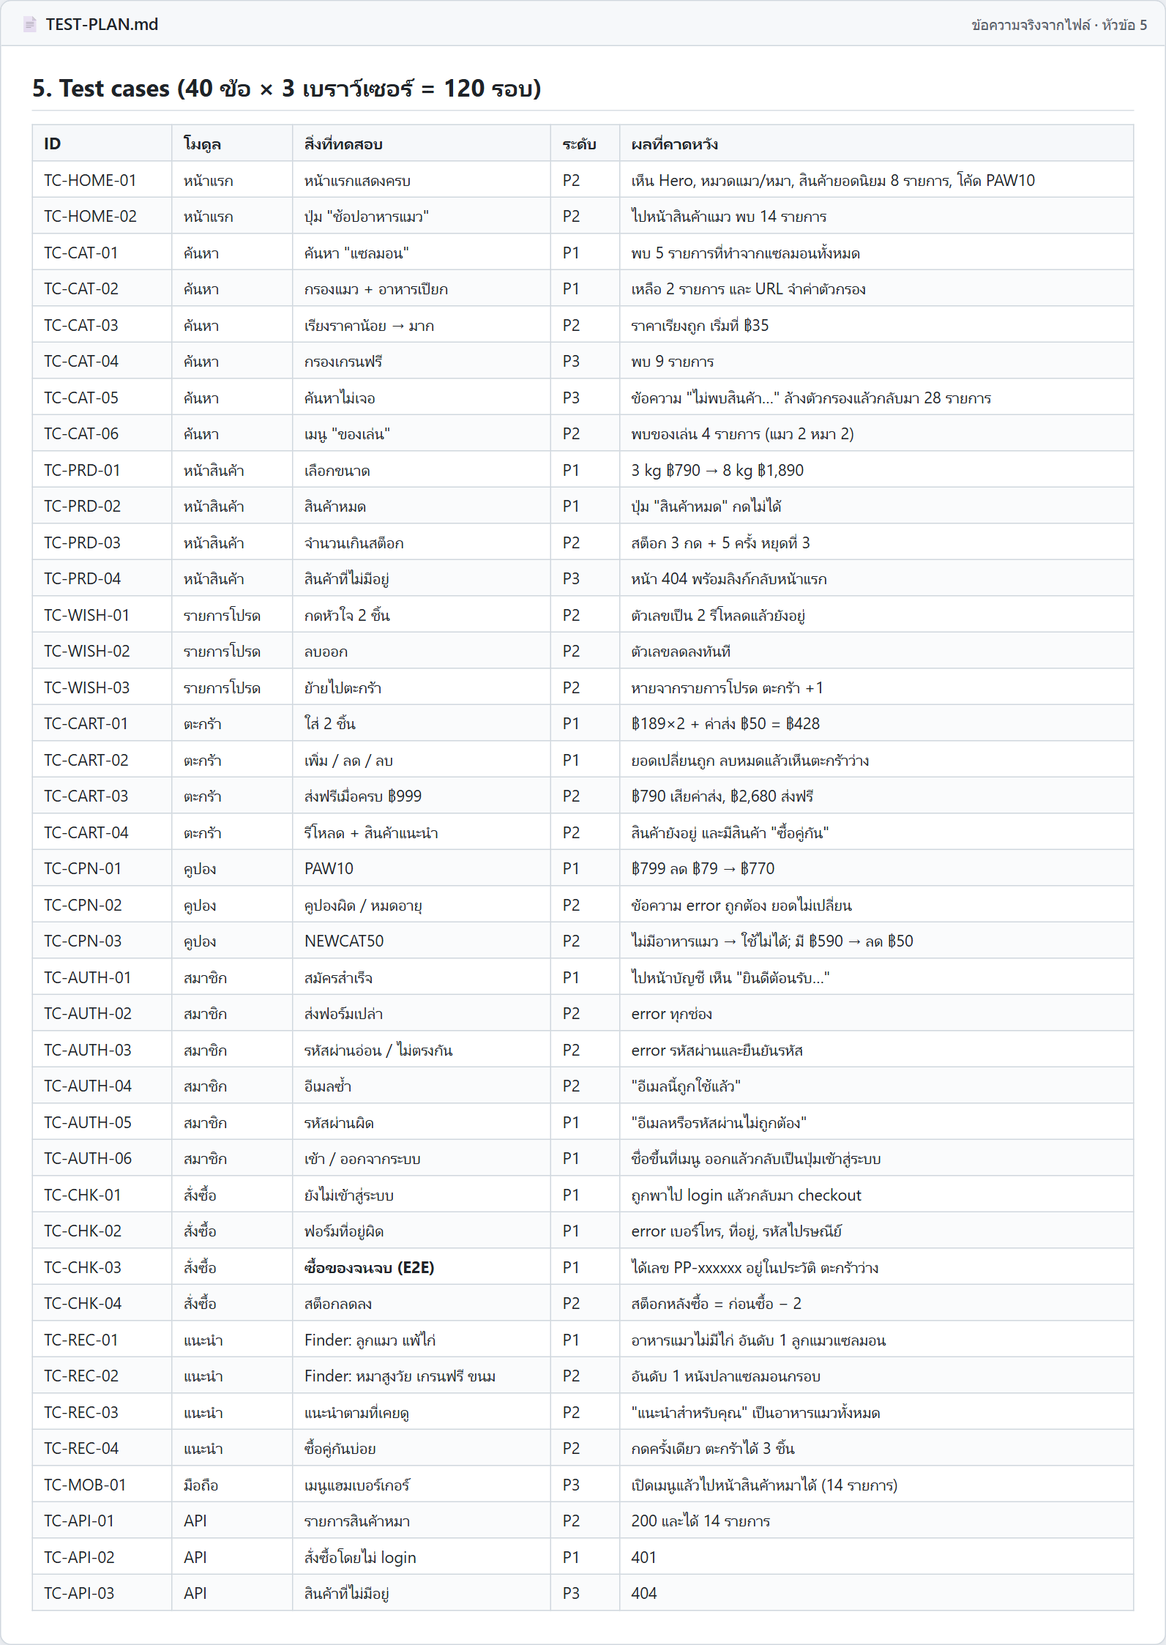
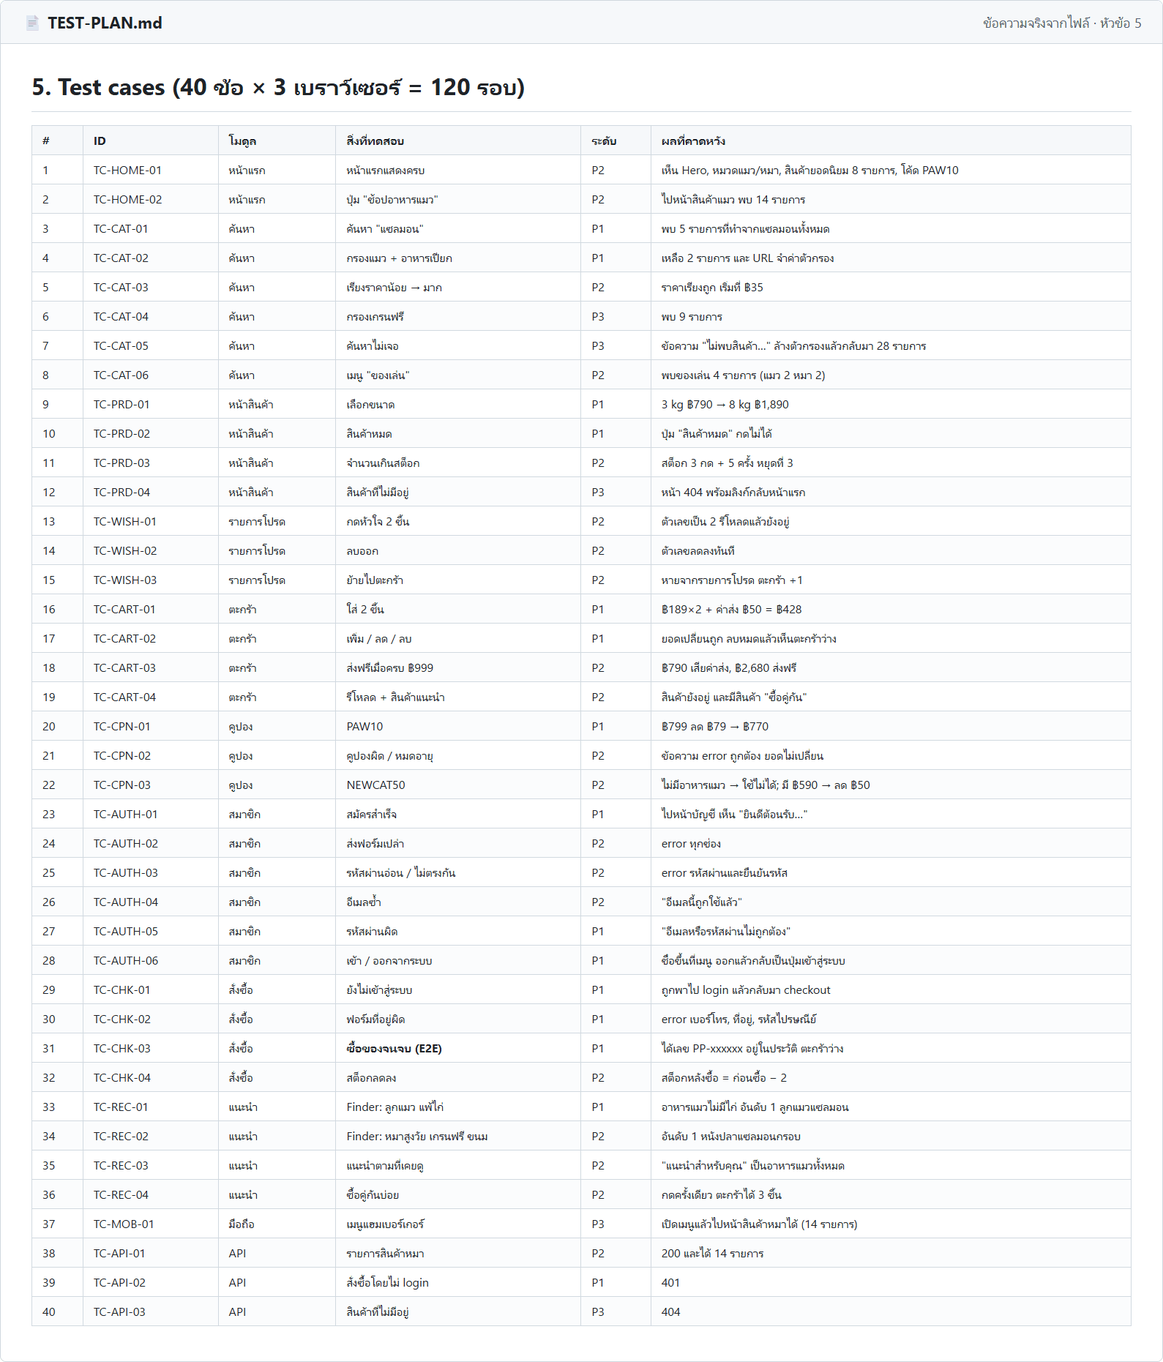
1

Changed region(s): [[0.0308, 0.0, 0.9559, 0.9973], [0.8326, 0.0, 0.9868, 0.0312], [0.9868, 0.9973, 1.0, 1.0]]

diff --git a/00_week01/02_petshop-test-from-plan/TEST-PLAN.md b/00_week01/02_petshop-test-from-plan/TEST-PLAN.md
@@ -5,13 +5,26 @@
 ทดสอบอัตโนมัติด้วย **Playwright บน Windows** โดยสั่งผ่าน Claude Code
 
 ## 2. ขอบเขต
-| ทดสอบ ✅ | ไม่ทดสอบ ❌ |
+ขอบเขตบอกว่ารอบนี้ **ทดสอบเรื่องอะไร และไม่ทดสอบเรื่องอะไร** ผลการทดสอบจึงรับรองระบบได้เฉพาะเรื่องที่อยู่ในขอบเขตเท่านั้น
+
+![ขอบเขตการทดสอบ PawPantry: ในรั้วคือสิ่งที่ทดสอบ ทุกหน้าตั้งแต่ค้นหาถึงสั่งซื้อ ราคา ส่วนลด ค่าส่ง ตรวจข้อมูลในฟอร์ม ระบบแนะนำสินค้า 3 เบราว์เซอร์และมือถือ และ API นอกรั้วคือสิ่งที่ไม่ทดสอบ รับเงินจริง load test และ penetration test](img/plan-scope.jpg)
+
+**✅ ทดสอบ (อยู่ในขอบเขต)**
+| เรื่อง | ครอบคลุมอะไร | โมดูล |
+|---|---|---|
+| การทำงานของทุกหน้า | หน้าแรก ค้นหา หน้าสินค้า รายการโปรด ตะกร้า สมาชิก จนสั่งซื้อสำเร็จ | HOME, CAT, PRD, WISH, CART, AUTH, CHK |
+| เงิน | ราคาตามขนาด ส่วนลดคูปอง ค่าส่ง และยอดรวม | CART, CPN, CHK |
+| การตรวจข้อมูลในฟอร์ม | ฟอร์มสมัคร เข้าสู่ระบบ และที่อยู่จัดส่ง ต้องแจ้ง error เมื่อกรอกผิด | AUTH, CHK |
+| ระบบแนะนำสินค้า | ตัวช่วยเลือกอาหาร (Finder) แนะนำตามที่เคยดู และซื้อคู่กันบ่อย | REC |
+| เบราว์เซอร์และอุปกรณ์ | Chromium, Firefox, WebKit (Safari) และหน้าจอมือถือ | ทุกโมดูล, MOB |
+| API | ข้อมูลสินค้า และสิทธิ์การสั่งซื้อ (ต้องเข้าสู่ระบบก่อน) | API |
+
+**❌ ไม่ทดสอบ (อยู่นอกขอบเขต)**
+| เรื่อง | เหตุผล |
 |---|---|
-| การทำงานของทุกหน้า (functional) ตั้งแต่ค้นหาจนสั่งซื้อ | การรับเงินจริง (เว็บเป็นระบบจำลอง) |
-| การคำนวณราคา ส่วนลด และค่าส่ง | ความเร็วเมื่อมีผู้ใช้จำนวนมาก (load test) |
-| การตรวจข้อมูลในฟอร์ม (validation) | ความปลอดภัยเชิงลึก (penetration test) |
-| ระบบแนะนำสินค้า · หมวดของเล่น / ของใช้ | |
-| 3 เบราว์เซอร์: Chromium, Firefox, WebKit (Safari) · หน้าจอมือถือ · API | |
+| การรับเงินจริง | เว็บเป็นระบบจำลอง ไม่ได้เชื่อมต่อธนาคารหรือบัตรเครดิต |
+| ความเร็วเมื่อมีผู้ใช้จำนวนมาก (load test) | ต้องใช้เครื่องมือและเครื่องทดสอบเฉพาะ ไม่ใช่เป้าหมายของรอบนี้ |
+| ความปลอดภัยเชิงลึก (penetration test) | ต้องใช้ผู้เชี่ยวชาญด้านความปลอดภัย รอบนี้ตรวจเพียงสิทธิ์พื้นฐานผ่าน API |
 
 ## 3. วิธีคิด test case (เทคนิคที่ใช้)
 | เทคนิค | ตัวอย่างในบทนี้ |
@@ -24,53 +37,65 @@
 | **API / Security** | สั่งซื้อผ่าน API โดยไม่เข้าสู่ระบบต้องได้ 401 |
 
 ## 4. ระดับความสำคัญ
-- **P1** ถ้าพังแล้วขายของไม่ได้ หรือเงินคำนวณผิด
-- **P2** ฟีเจอร์สำคัญ แต่ลูกค้ายังซื้อของได้
-- **P3** ความสวยงามหรือกรณีที่เกิดไม่บ่อย
+test case ทุกข้อถูกจัดระดับตาม **ความเสียหายถ้าข้อนั้นล้ม** ระดับนี้ใช้ตัดสินว่าต้องแก้บั๊กไหนก่อน และระบบพร้อมปล่อยใช้งานหรือยัง
+
+![ระดับความสำคัญ P1 P2 P3 แบบไฟจราจร: P1 สีแดง ขายของไม่ได้หรือเงินผิด ล้มแล้วไม่ผ่านเกณฑ์ 15 ข้อ, P2 สีเหลือง ฟีเจอร์ผิดแต่ยังซื้อได้ แก้รอบถัดไป 20 ข้อ, P3 สีเขียว หน้าตาหรือเกิดไม่บ่อย แก้เมื่อมีเวลา 5 ข้อ รวม 40 ข้อ](img/plan-priority.jpg)
+
+| ระดับ | ความหมาย | ถ้าล้ม | จำนวน | ตัวอย่าง |
+|---|---|---|---|---|
+| 🔴 **P1** ร้ายแรง | ลูกค้าซื้อของไม่ได้ เงินคำนวณผิด หรือสิทธิ์การเข้าถึงผิด | ระบบ **ไม่ผ่านเกณฑ์ทันที** ห้ามปล่อยใช้งาน | 15 ข้อ | ยอดรวมตะกร้า (TC-CART-01), คูปอง PAW10 (TC-CPN-01) |
+| 🟡 **P2** ปานกลาง | ฟีเจอร์สำคัญทำงานผิด แต่ลูกค้ายังซื้อของได้ | บันทึกบั๊ก แก้ในรอบถัดไป | 20 ข้อ | ลบรายการโปรดแล้วตัวเลขต้องลด (TC-WISH-02) |
+| 🟢 **P3** เล็กน้อย | เรื่องหน้าตา หรือกรณีที่เกิดไม่บ่อย | แก้เมื่อมีเวลา | 5 ข้อ | หน้า 404 (TC-PRD-04), เมนูมือถือ (TC-MOB-01) |
+
+**วิธีจัดระดับ:** ถามทีละข้อ แล้วหยุดที่ข้อแรกที่ตอบว่า "ใช่"
+
+1. ถ้าข้อนี้ล้ม ลูกค้าซื้อของไม่ได้ เงินผิด หรือสิทธิ์ผิดใช่ไหม → **P1**
+2. ถ้าข้อนี้ล้ม ฟีเจอร์สำคัญทำงานผิด แต่ลูกค้ายังซื้อได้ใช่ไหม → **P2**
+3. นอกนั้น (หน้าตา หรือกรณีที่เกิดไม่บ่อย) → **P3**
 
 ## 5. Test cases (40 ข้อ × 3 เบราว์เซอร์ = 120 รอบ)
-| ID | โมดูล | สิ่งที่ทดสอบ | ระดับ | ผลที่คาดหวัง |
-|---|---|---|---|---|
-| TC-HOME-01 | หน้าแรก | หน้าแรกแสดงครบ | P2 | เห็น Hero, หมวดแมว/หมา, สินค้ายอดนิยม 8 รายการ, โค้ด PAW10 |
-| TC-HOME-02 | หน้าแรก | ปุ่ม "ช้อปอาหารแมว" | P2 | ไปหน้าสินค้าแมว พบ 14 รายการ |
-| TC-CAT-01 | ค้นหา | ค้นหา "แซลมอน" | P1 | พบ 5 รายการที่ทำจากแซลมอนทั้งหมด |
-| TC-CAT-02 | ค้นหา | กรองแมว + อาหารเปียก | P1 | เหลือ 2 รายการ และ URL จำค่าตัวกรอง |
-| TC-CAT-03 | ค้นหา | เรียงราคาน้อย → มาก | P2 | ราคาเรียงถูก เริ่มที่ ฿35 |
-| TC-CAT-04 | ค้นหา | กรองเกรนฟรี | P3 | พบ 9 รายการ |
-| TC-CAT-05 | ค้นหา | ค้นหาไม่เจอ | P3 | ข้อความ "ไม่พบสินค้า…" ล้างตัวกรองแล้วกลับมา 28 รายการ |
-| TC-CAT-06 | ค้นหา | เมนู "ของเล่น" | P2 | พบของเล่น 4 รายการ (แมว 2 หมา 2) |
-| TC-PRD-01 | หน้าสินค้า | เลือกขนาด | P1 | 3 kg ฿790 → 8 kg ฿1,890 |
-| TC-PRD-02 | หน้าสินค้า | สินค้าหมด | P1 | ปุ่ม "สินค้าหมด" กดไม่ได้ |
-| TC-PRD-03 | หน้าสินค้า | จำนวนเกินสต็อก | P2 | สต็อก 3 กด + 5 ครั้ง หยุดที่ 3 |
-| TC-PRD-04 | หน้าสินค้า | สินค้าที่ไม่มีอยู่ | P3 | หน้า 404 พร้อมลิงก์กลับหน้าแรก |
-| TC-WISH-01 | รายการโปรด | กดหัวใจ 2 ชิ้น | P2 | ตัวเลขเป็น 2 รีโหลดแล้วยังอยู่ |
-| TC-WISH-02 | รายการโปรด | ลบออก | P2 | ตัวเลขลดลงทันที |
-| TC-WISH-03 | รายการโปรด | ย้ายไปตะกร้า | P2 | หายจากรายการโปรด ตะกร้า +1 |
-| TC-CART-01 | ตะกร้า | ใส่ 2 ชิ้น | P1 | ฿189×2 + ค่าส่ง ฿50 = ฿428 |
-| TC-CART-02 | ตะกร้า | เพิ่ม / ลด / ลบ | P1 | ยอดเปลี่ยนถูก ลบหมดแล้วเห็นตะกร้าว่าง |
-| TC-CART-03 | ตะกร้า | ส่งฟรีเมื่อครบ ฿999 | P2 | ฿790 เสียค่าส่ง, ฿2,680 ส่งฟรี |
-| TC-CART-04 | ตะกร้า | รีโหลด + สินค้าแนะนำ | P2 | สินค้ายังอยู่ และมีสินค้า "ซื้อคู่กัน" |
-| TC-CPN-01 | คูปอง | PAW10 | P1 | ฿799 ลด ฿79 → ฿770 |
-| TC-CPN-02 | คูปอง | คูปองผิด / หมดอายุ | P2 | ข้อความ error ถูกต้อง ยอดไม่เปลี่ยน |
-| TC-CPN-03 | คูปอง | NEWCAT50 | P2 | ไม่มีอาหารแมว → ใช้ไม่ได้; มี ฿590 → ลด ฿50 |
-| TC-AUTH-01 | สมาชิก | สมัครสำเร็จ | P1 | ไปหน้าบัญชี เห็น "ยินดีต้อนรับ…" |
-| TC-AUTH-02 | สมาชิก | ส่งฟอร์มเปล่า | P2 | error ทุกช่อง |
-| TC-AUTH-03 | สมาชิก | รหัสผ่านอ่อน / ไม่ตรงกัน | P2 | error รหัสผ่านและยืนยันรหัส |
-| TC-AUTH-04 | สมาชิก | อีเมลซ้ำ | P2 | "อีเมลนี้ถูกใช้แล้ว" |
-| TC-AUTH-05 | สมาชิก | รหัสผ่านผิด | P1 | "อีเมลหรือรหัสผ่านไม่ถูกต้อง" |
-| TC-AUTH-06 | สมาชิก | เข้า / ออกจากระบบ | P1 | ชื่อขึ้นที่เมนู ออกแล้วกลับเป็นปุ่มเข้าสู่ระบบ |
-| TC-CHK-01 | สั่งซื้อ | ยังไม่เข้าสู่ระบบ | P1 | ถูกพาไป login แล้วกลับมา checkout |
-| TC-CHK-02 | สั่งซื้อ | ฟอร์มที่อยู่ผิด | P1 | error เบอร์โทร, ที่อยู่, รหัสไปรษณีย์ |
-| TC-CHK-03 | สั่งซื้อ | **ซื้อของจนจบ (E2E)** | P1 | ได้เลข PP-xxxxxx อยู่ในประวัติ ตะกร้าว่าง |
-| TC-CHK-04 | สั่งซื้อ | สต็อกลดลง | P2 | สต็อกหลังซื้อ = ก่อนซื้อ − 2 |
-| TC-REC-01 | แนะนำ | Finder: ลูกแมว แพ้ไก่ | P1 | อาหารแมวไม่มีไก่ อันดับ 1 ลูกแมวแซลมอน |
-| TC-REC-02 | แนะนำ | Finder: หมาสูงวัย เกรนฟรี ขนม | P2 | อันดับ 1 หนังปลาแซลมอนกรอบ |
-| TC-REC-03 | แนะนำ | แนะนำตามที่เคยดู | P2 | "แนะนำสำหรับคุณ" เป็นอาหารแมวทั้งหมด |
-| TC-REC-04 | แนะนำ | ซื้อคู่กันบ่อย | P2 | กดครั้งเดียว ตะกร้าได้ 3 ชิ้น |
-| TC-MOB-01 | มือถือ | เมนูแฮมเบอร์เกอร์ | P3 | เปิดเมนูแล้วไปหน้าสินค้าหมาได้ (14 รายการ) |
-| TC-API-01 | API | รายการสินค้าหมา | P2 | 200 และได้ 14 รายการ |
-| TC-API-02 | API | สั่งซื้อโดยไม่ login | P1 | 401 |
-| TC-API-03 | API | สินค้าที่ไม่มีอยู่ | P3 | 404 |
+| # | ID | โมดูล | สิ่งที่ทดสอบ | ระดับ | ผลที่คาดหวัง |
+|---|---|---|---|---|---|
+| 1 | TC-HOME-01 | หน้าแรก | หน้าแรกแสดงครบ | P2 | เห็น Hero, หมวดแมว/หมา, สินค้ายอดนิยม 8 รายการ, โค้ด PAW10 |
+| 2 | TC-HOME-02 | หน้าแรก | ปุ่ม "ช้อปอาหารแมว" | P2 | ไปหน้าสินค้าแมว พบ 14 รายการ |
+| 3 | TC-CAT-01 | ค้นหา | ค้นหา "แซลมอน" | P1 | พบ 5 รายการที่ทำจากแซลมอนทั้งหมด |
+| 4 | TC-CAT-02 | ค้นหา | กรองแมว + อาหารเปียก | P1 | เหลือ 2 รายการ และ URL จำค่าตัวกรอง |
+| 5 | TC-CAT-03 | ค้นหา | เรียงราคาน้อย → มาก | P2 | ราคาเรียงถูก เริ่มที่ ฿35 |
+| 6 | TC-CAT-04 | ค้นหา | กรองเกรนฟรี | P3 | พบ 9 รายการ |
+| 7 | TC-CAT-05 | ค้นหา | ค้นหาไม่เจอ | P3 | ข้อความ "ไม่พบสินค้า…" ล้างตัวกรองแล้วกลับมา 28 รายการ |
+| 8 | TC-CAT-06 | ค้นหา | เมนู "ของเล่น" | P2 | พบของเล่น 4 รายการ (แมว 2 หมา 2) |
+| 9 | TC-PRD-01 | หน้าสินค้า | เลือกขนาด | P1 | 3 kg ฿790 → 8 kg ฿1,890 |
+| 10 | TC-PRD-02 | หน้าสินค้า | สินค้าหมด | P1 | ปุ่ม "สินค้าหมด" กดไม่ได้ |
+| 11 | TC-PRD-03 | หน้าสินค้า | จำนวนเกินสต็อก | P2 | สต็อก 3 กด + 5 ครั้ง หยุดที่ 3 |
+| 12 | TC-PRD-04 | หน้าสินค้า | สินค้าที่ไม่มีอยู่ | P3 | หน้า 404 พร้อมลิงก์กลับหน้าแรก |
+| 13 | TC-WISH-01 | รายการโปรด | กดหัวใจ 2 ชิ้น | P2 | ตัวเลขเป็น 2 รีโหลดแล้วยังอยู่ |
+| 14 | TC-WISH-02 | รายการโปรด | ลบออก | P2 | ตัวเลขลดลงทันที |
+| 15 | TC-WISH-03 | รายการโปรด | ย้ายไปตะกร้า | P2 | หายจากรายการโปรด ตะกร้า +1 |
+| 16 | TC-CART-01 | ตะกร้า | ใส่ 2 ชิ้น | P1 | ฿189×2 + ค่าส่ง ฿50 = ฿428 |
+| 17 | TC-CART-02 | ตะกร้า | เพิ่ม / ลด / ลบ | P1 | ยอดเปลี่ยนถูก ลบหมดแล้วเห็นตะกร้าว่าง |
+| 18 | TC-CART-03 | ตะกร้า | ส่งฟรีเมื่อครบ ฿999 | P2 | ฿790 เสียค่าส่ง, ฿2,680 ส่งฟรี |
+| 19 | TC-CART-04 | ตะกร้า | รีโหลด + สินค้าแนะนำ | P2 | สินค้ายังอยู่ และมีสินค้า "ซื้อคู่กัน" |
+| 20 | TC-CPN-01 | คูปอง | PAW10 | P1 | ฿799 ลด ฿79 → ฿770 |
+| 21 | TC-CPN-02 | คูปอง | คูปองผิด / หมดอายุ | P2 | ข้อความ error ถูกต้อง ยอดไม่เปลี่ยน |
+| 22 | TC-CPN-03 | คูปอง | NEWCAT50 | P2 | ไม่มีอาหารแมว → ใช้ไม่ได้; มี ฿590 → ลด ฿50 |
+| 23 | TC-AUTH-01 | สมาชิก | สมัครสำเร็จ | P1 | ไปหน้าบัญชี เห็น "ยินดีต้อนรับ…" |
+| 24 | TC-AUTH-02 | สมาชิก | ส่งฟอร์มเปล่า | P2 | error ทุกช่อง |
+| 25 | TC-AUTH-03 | สมาชิก | รหัสผ่านอ่อน / ไม่ตรงกัน | P2 | error รหัสผ่านและยืนยันรหัส |
+| 26 | TC-AUTH-04 | สมาชิก | อีเมลซ้ำ | P2 | "อีเมลนี้ถูกใช้แล้ว" |
+| 27 | TC-AUTH-05 | สมาชิก | รหัสผ่านผิด | P1 | "อีเมลหรือรหัสผ่านไม่ถูกต้อง" |
+| 28 | TC-AUTH-06 | สมาชิก | เข้า / ออกจากระบบ | P1 | ชื่อขึ้นที่เมนู ออกแล้วกลับเป็นปุ่มเข้าสู่ระบบ |
+| 29 | TC-CHK-01 | สั่งซื้อ | ยังไม่เข้าสู่ระบบ | P1 | ถูกพาไป login แล้วกลับมา checkout |
+| 30 | TC-CHK-02 | สั่งซื้อ | ฟอร์มที่อยู่ผิด | P1 | error เบอร์โทร, ที่อยู่, รหัสไปรษณีย์ |
+| 31 | TC-CHK-03 | สั่งซื้อ | **ซื้อของจนจบ (E2E)** | P1 | ได้เลข PP-xxxxxx อยู่ในประวัติ ตะกร้าว่าง |
+| 32 | TC-CHK-04 | สั่งซื้อ | สต็อกลดลง | P2 | สต็อกหลังซื้อ = ก่อนซื้อ − 2 |
+| 33 | TC-REC-01 | แนะนำ | Finder: ลูกแมว แพ้ไก่ | P1 | อาหารแมวไม่มีไก่ อันดับ 1 ลูกแมวแซลมอน |
+| 34 | TC-REC-02 | แนะนำ | Finder: หมาสูงวัย เกรนฟรี ขนม | P2 | อันดับ 1 หนังปลาแซลมอนกรอบ |
+| 35 | TC-REC-03 | แนะนำ | แนะนำตามที่เคยดู | P2 | "แนะนำสำหรับคุณ" เป็นอาหารแมวทั้งหมด |
+| 36 | TC-REC-04 | แนะนำ | ซื้อคู่กันบ่อย | P2 | กดครั้งเดียว ตะกร้าได้ 3 ชิ้น |
+| 37 | TC-MOB-01 | มือถือ | เมนูแฮมเบอร์เกอร์ | P3 | เปิดเมนูแล้วไปหน้าสินค้าหมาได้ (14 รายการ) |
+| 38 | TC-API-01 | API | รายการสินค้าหมา | P2 | 200 และได้ 14 รายการ |
+| 39 | TC-API-02 | API | สั่งซื้อโดยไม่ login | P1 | 401 |
+| 40 | TC-API-03 | API | สินค้าที่ไม่มีอยู่ | P3 | 404 |
 
 ## 6. เกณฑ์ (Entry / Exit criteria)
 - **เริ่มทดสอบได้เมื่อ** container `petshop` ขึ้นสถานะ healthy และ `/api/health` ตอบ `{ ok: true }`
